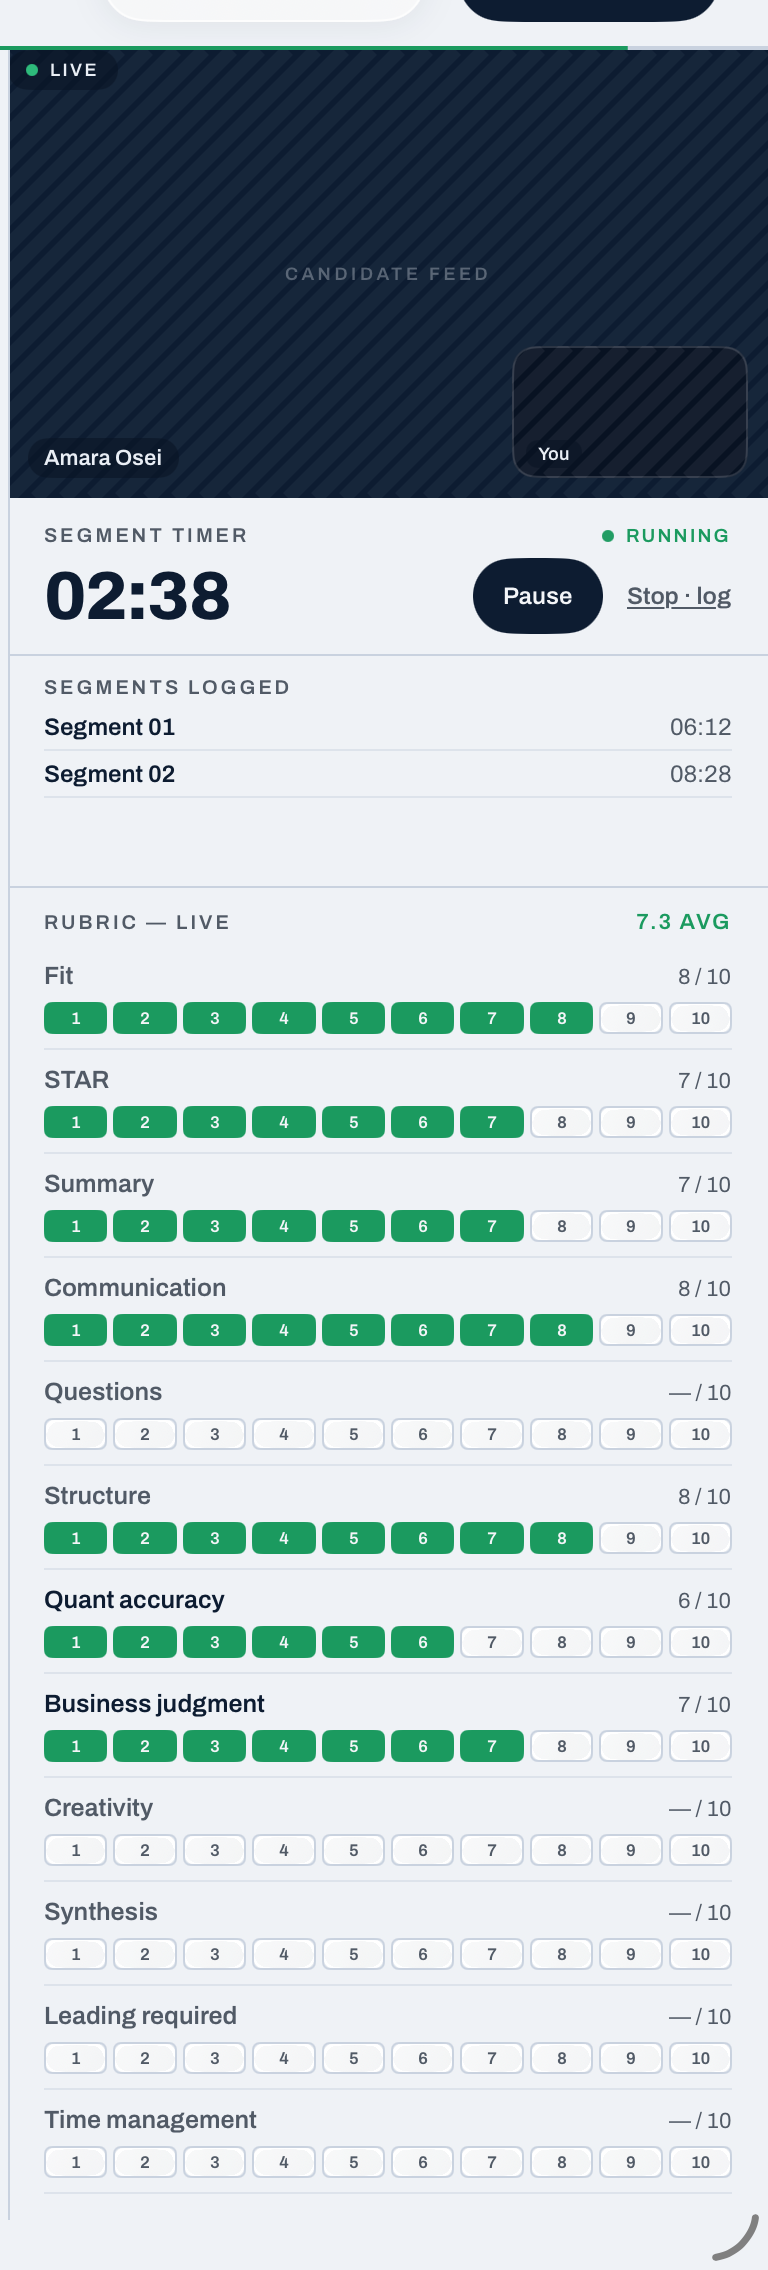
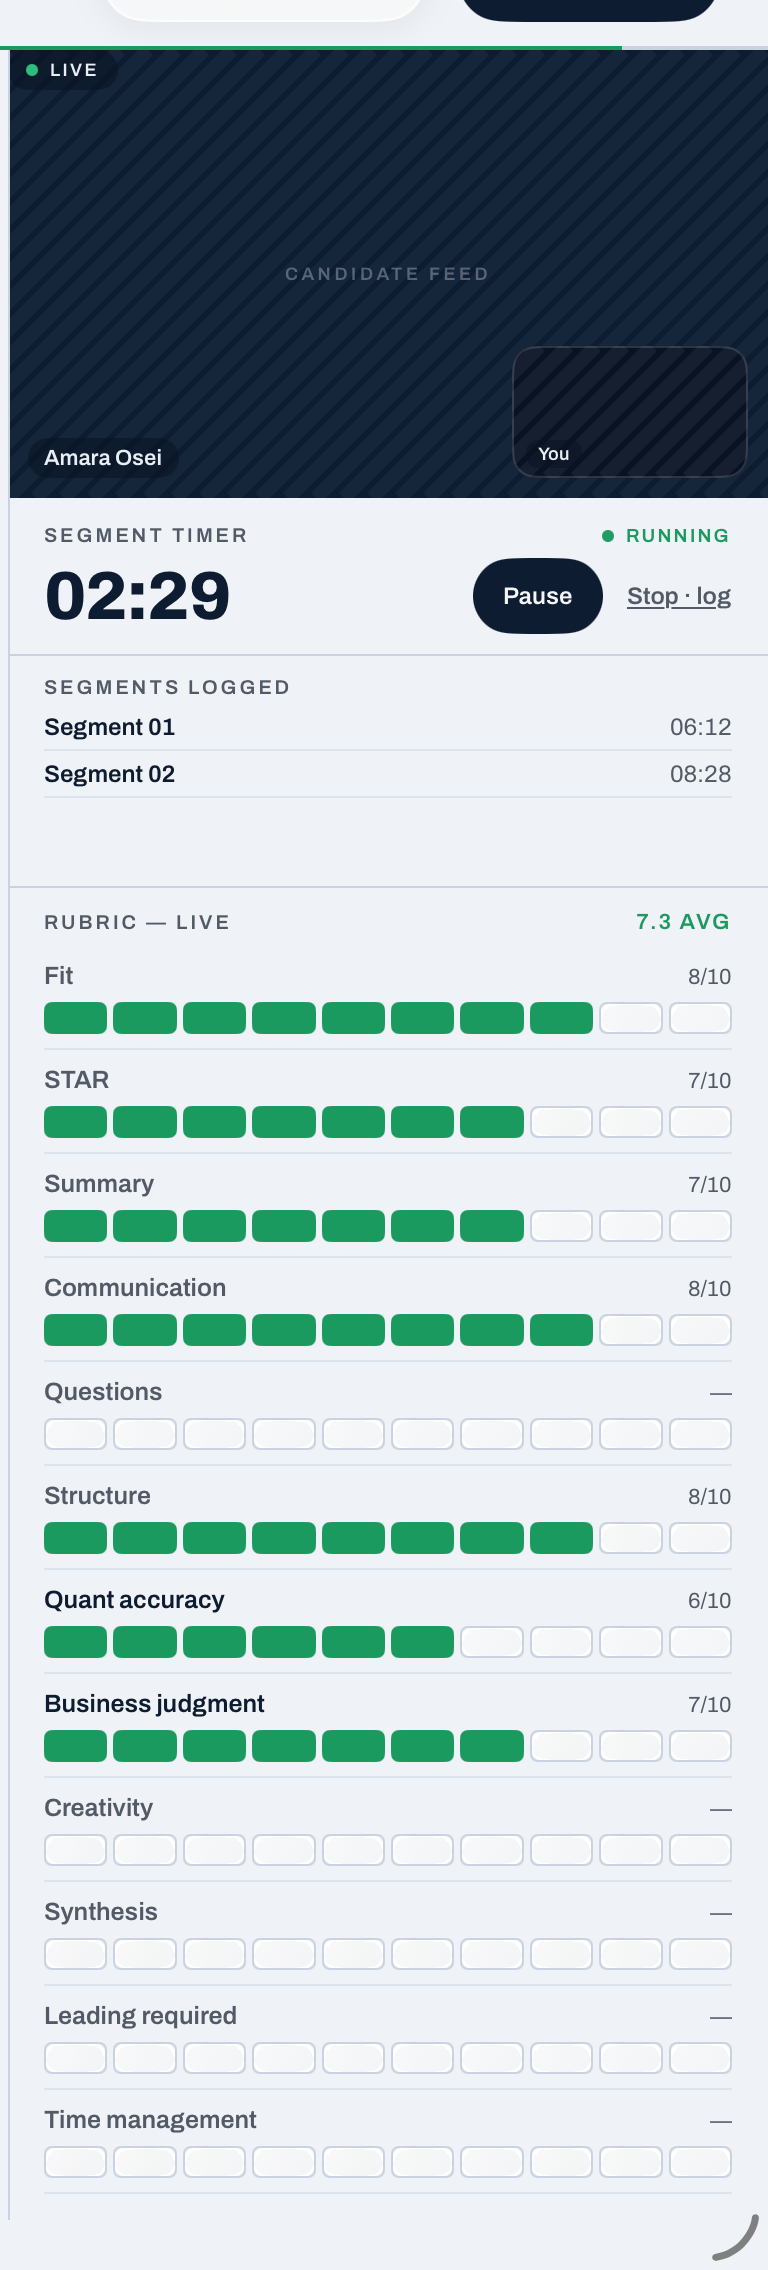
Apply T4 review nits (readout guard, blank rail cells, compact rail form)
1. Complete T3 nit #1: the TABLET SCORE THIS STAGE readout still rendered
   "0 / 10" for unscored dims (the earlier replace_all missed it — different
   indent). Route phone/tablet SCORE blocks + the rail through two pure VM
   helpers: spacedReadout ("— / N" / "P / N") and compactReadout ("—" / "P/N").
   Add testScoreReadoutFormats so the "0 / N" miss can't regress silently.

2. Rail mini-cells are BLANK (canvas 1a l.805 heat-strip): add
   ScoreCells.showsNumbers (default true — every F5 call site unchanged); the
   rail passes false. Empty label keeps the frame/tap target identical.

3. Rail readout is COMPACT ("8/10" / bare "—", canvas l.1195), distinct from
   the left pane's spaced form.

iOS 697/0; iPad shots re-captured (tablet-console-full/-rail).

diff --git a/ios/CaseRoom/Views/InterviewerConsoleView.swift b/ios/CaseRoom/Views/InterviewerConsoleView.swift
@@ -315,7 +315,7 @@ private struct PhoneConsole: View {
                         .font(.archivo(9.5, weight: 600)).tracking(9.5 * 0.15)
                         .foregroundStyle(palette.green)
                     Spacer()
-                    Text(model.points(dimId: item.id) > 0 ? "\(model.points(dimId: item.id)) / \(item.maxPoints)" : "— / \(item.maxPoints)")
+                    Text(model.spacedReadout(item))
                         .font(.archivo(9, weight: 600)).tracking(9 * 0.1).tabularNumbers()
                         .foregroundStyle(palette.faint)
                 }
@@ -749,7 +749,7 @@ private struct TabletConsole: View {
                     .font(.archivo(13.5, weight: 600))
                     .foregroundStyle(palette.ink)
                 Spacer(minLength: 8)
-                Text("\(model.points(dimId: item.id)) / \(item.maxPoints)")
+                Text(model.spacedReadout(item))
                     .font(.archivo(11.5)).tabularNumbers()
                     .foregroundStyle(palette.muted)
             }
@@ -984,7 +984,9 @@ private struct TabletConsole: View {
                     .foregroundStyle(isCurrent ? palette.ink : palette.muted)
                     .lineLimit(1)
                 Spacer(minLength: 8)
-                Text(points > 0 ? "\(points) / \(item.maxPoints)" : "— / \(item.maxPoints)")
+                // Rail readout is COMPACT (canvas 1a line 1195: "8/10" / bare
+                // "—"), distinct from the left pane's spaced "8 / 10" / "— / 10".
+                Text(model.compactReadout(item))
                     .font(.archivo(11)).tabularNumbers()
                     .foregroundStyle(palette.muted)
             }
@@ -994,7 +996,8 @@ private struct TabletConsole: View {
                 count: item.maxPoints,
                 value: points,
                 size: .small,
-                interactive: true
+                interactive: true,
+                showsNumbers: false           // canvas rail = blank heat-strip (Tablet 1a l.805)
             ) { model.score(dimId: item.id, points: $0) }
         }
         .padding(.vertical, 8)

diff --git a/ios/CaseRoomTests/ConsoleViewModelTests.swift b/ios/CaseRoomTests/ConsoleViewModelTests.swift
@@ -348,6 +348,27 @@ final class ConsoleViewModelTests: XCTestCase {
         XCTAssertEqual(vm.points(dimId: "quant"), 5)     // new value sets
     }
 
+    // Guards T3 nit #1 + the T4 rail form: the SCORE-block readout is SPACED
+    // ("— / N" unscored, never "0 / N"); the rail readout is COMPACT (bare "—",
+    // "P/N"). A silent regression here reintroduces the "0 / 10" canvas miss.
+    func testScoreReadoutFormats() {
+        // Pure statics.
+        XCTAssertEqual(ConsoleViewModel.spacedReadout(points: 0, maxPoints: 10), "— / 10")
+        XCTAssertEqual(ConsoleViewModel.spacedReadout(points: 8, maxPoints: 10), "8 / 10")
+        XCTAssertEqual(ConsoleViewModel.spacedReadout(points: 0, maxPoints: 5), "— / 5")
+        XCTAssertEqual(ConsoleViewModel.compactReadout(points: 0, maxPoints: 10), "—")
+        XCTAssertEqual(ConsoleViewModel.compactReadout(points: 8, maxPoints: 10), "8/10")
+
+        // Instance conveniences read the live point value.
+        let (vm, _) = tabletVM(template: realTemplate())
+        let quant = realTemplate().first { $0.id == "quant" }!
+        XCTAssertEqual(vm.spacedReadout(quant), "— / \(quant.maxPoints)")   // unscored
+        XCTAssertEqual(vm.compactReadout(quant), "—")
+        vm.score(dimId: "quant", points: 6)
+        XCTAssertEqual(vm.spacedReadout(quant), "6 / \(quant.maxPoints)")
+        XCTAssertEqual(vm.compactReadout(quant), "6/\(quant.maxPoints)")
+    }
+
     func testRunningAvgExcludesZeroAndAvgText() {
         let (vm, _) = tabletVM(template: realTemplate())
         let items = realTemplate()

diff --git a/ios/CaseRoom/State/ConsoleViewModel.swift b/ios/CaseRoom/State/ConsoleViewModel.swift
@@ -176,6 +176,28 @@ final class ConsoleViewModel {
         rubric.score(itemId: dimId, points: next)
     }
 
+    // MARK: Per-dim score readouts (pure — shared by the view + guarded by tests)
+
+    /// The SPACED readout for the phone/tablet SCORE blocks (canvas left pane
+    /// l.1179): "P / N" scored, "— / N" unscored (T3 nit #1 — never "0 / N").
+    static func spacedReadout(points: Int, maxPoints: Int) -> String {
+        points > 0 ? "\(points) / \(maxPoints)" : "— / \(maxPoints)"
+    }
+
+    /// The COMPACT rail readout (canvas 1a l.1195): "P/N" scored, bare "—"
+    /// unscored — deliberately distinct from the spaced left-pane form.
+    static func compactReadout(points: Int, maxPoints: Int) -> String {
+        points > 0 ? "\(points)/\(maxPoints)" : "—"
+    }
+
+    /// Instance conveniences reading the live point value for a dim.
+    func spacedReadout(_ item: RubricTemplateItem) -> String {
+        Self.spacedReadout(points: points(dimId: item.id), maxPoints: item.maxPoints)
+    }
+    func compactReadout(_ item: RubricTemplateItem) -> String {
+        Self.compactReadout(points: points(dimId: item.id), maxPoints: item.maxPoints)
+    }
+
     // MARK: Evidence note (bound by the phone/tablet score block's serif input)
 
     /// The current evidence note for a dim (absent → empty).

diff --git a/ios/CaseRoom/DesignSystem/ScoreCells.swift b/ios/CaseRoom/DesignSystem/ScoreCells.swift
@@ -30,6 +30,10 @@ struct ScoreCells: View {
     let value: Int
     var size: ScoreCellSize = .medium
     var interactive: Bool = false
+    /// Whether each cell prints its digit. Default `true` preserves every F5
+    /// call site (debrief/recap/left-pane) byte-for-byte; the F6 tablet rail
+    /// passes `false` for the canvas's blank 16px heat-strip (Tablet 1a l.805).
+    var showsNumbers: Bool = true
     var onSelect: ((Int) -> Void)? = nil
     @Environment(\.dsPalette) private var palette
 
@@ -42,7 +46,9 @@ struct ScoreCells: View {
     @ViewBuilder private func cell(_ n: Int) -> some View {
         let filled = n <= value
         let shape = RoundedRectangle(cornerRadius: size.corner, style: .continuous)
-        let label = Text("\(n)")
+        // Blank when showsNumbers is false (canvas rail heat-strip); the empty
+        // string keeps the frame/tap target identical to the numbered cell.
+        let label = Text(showsNumbers ? "\(n)" : "")
             .font(size.font)
             .monospacedDigit()
             .foregroundStyle(filled ? palette.onInk : palette.muted)
